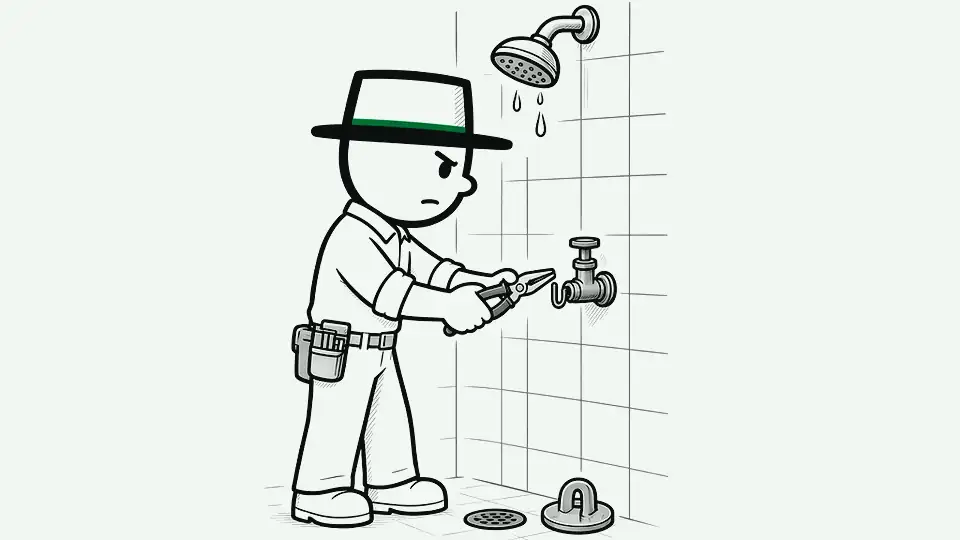
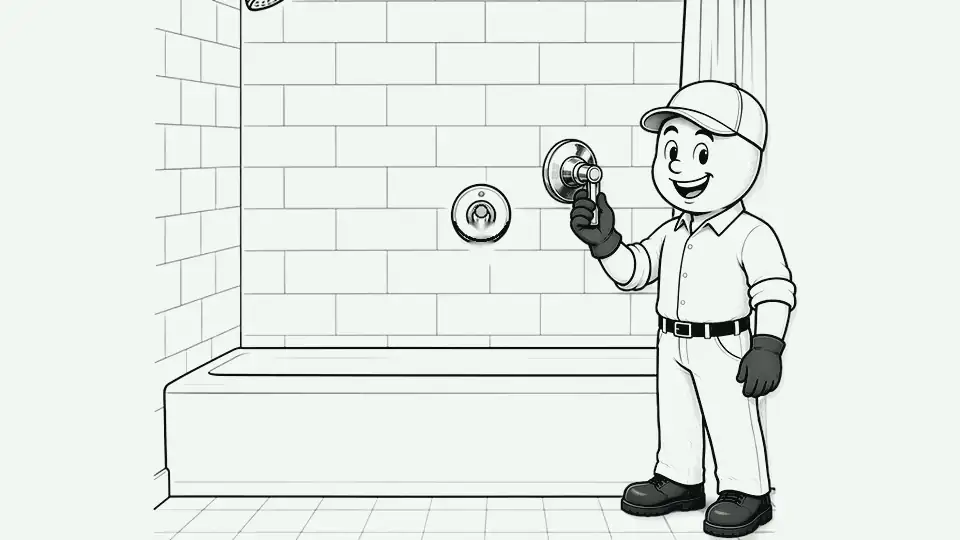
cartridge: 6-frame v7 shower cartridge scene

diff --git a/scenes/cartridge.js b/scenes/cartridge.js
@@ -1,1 +1,1 @@
-(window.EESceneData=window.EESceneData||{})["cartridge"]={"kind":"kf","w":960,"h":540,"title":"Shower cartridge replaced","alt":"Water off and the valve opened to relieve pressure, the trim off and the retaining clip pulled, the scaled-up cartridge pulled with a puller, the new cartridge greased, and warm water running again.","frames":[{"src":"scenes/kf/cartridge-1.webp?v=6","hold":560,"tw":{"x":-4},"o":[{"x":38,"y":56,"t":"word","text":"WATER OFF","s":32}]},{"src":"scenes/kf/cartridge-2.webp?v=6","hold":560,"tw":{"y":-6}},{"src":"scenes/kf/cartridge-3.webp?v=6","hold":560,"tw":{"x":5,"ms":240},"o":[{"x":412,"y":131,"t":"effort","a":-40}]},{"src":"scenes/kf/cartridge-4.webp?v=6","hold":560,"tw":{"sy":0.99,"ms":200}},{"src":"scenes/kf/cartridge-5.webp?v=6","hold":760,"tw":{"y":8,"r":-1,"ms":300},"o":[{"x":544,"y":197,"t":"steam"},{"x":110,"y":100,"t":"check"}]}],"placeholder":false};
+(window.EESceneData=window.EESceneData||{})["cartridge"]={"kind":"kf","w":960,"h":540,"title":"Shower cartridge replaced","alt":"He pries the cap off the shower handle with a screwdriver, pulls the handle off, works the old cartridge loose with a cartridge puller, checks the worn cartridge, presses the new cartridge into the valve, and turns the shower on with a thumbs-up.","frames":[{"src":"scenes/kf/cartridge-1.webp?v=7.2","hold":500,"tw":{"x":-3},"o":[{"x":581,"y":66,"t":"word","text":"DRIP DRIP","s":38}]},{"src":"scenes/kf/cartridge-2.webp?v=7.2","hold":500,"tw":{"y":-4},"o":[{"x":38,"y":66,"t":"word","text":"HANDLE OFF","s":38}]},{"src":"scenes/kf/cartridge-3.webp?v=7.2","hold":520,"tw":{"x":4,"ms":240},"o":[{"x":581,"y":66,"t":"word","text":"PULLER","s":39}]},{"src":"scenes/kf/cartridge-4.webp?v=7.2","hold":500,"tw":{"sy":0.99,"ms":200},"o":[{"x":581,"y":66,"t":"word","text":"WORN OUT","s":39}]},{"src":"scenes/kf/cartridge-5.webp?v=7.2","hold":500,"tw":{"y":-4},"o":[{"x":581,"y":66,"t":"word","text":"NEW ONE","s":39}]},{"src":"scenes/kf/cartridge-6.webp?v=7.2","hold":1000,"tw":{"y":6,"r":-0.8,"ms":300},"o":[{"x":110,"y":100,"t":"check"}]}],"placeholder":false};
